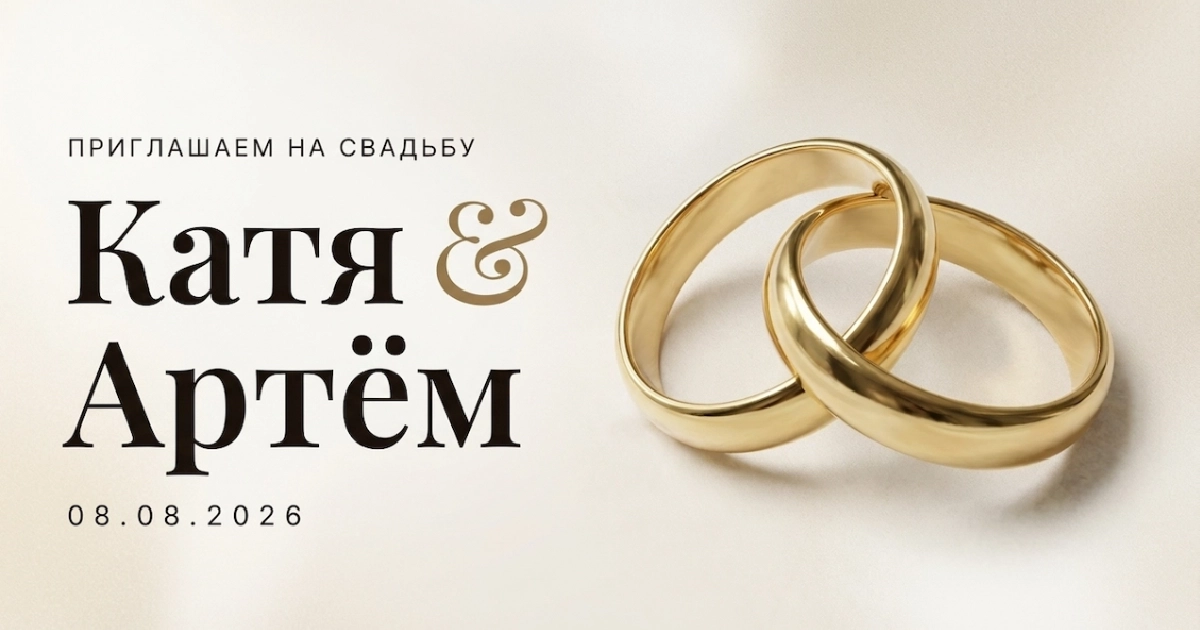
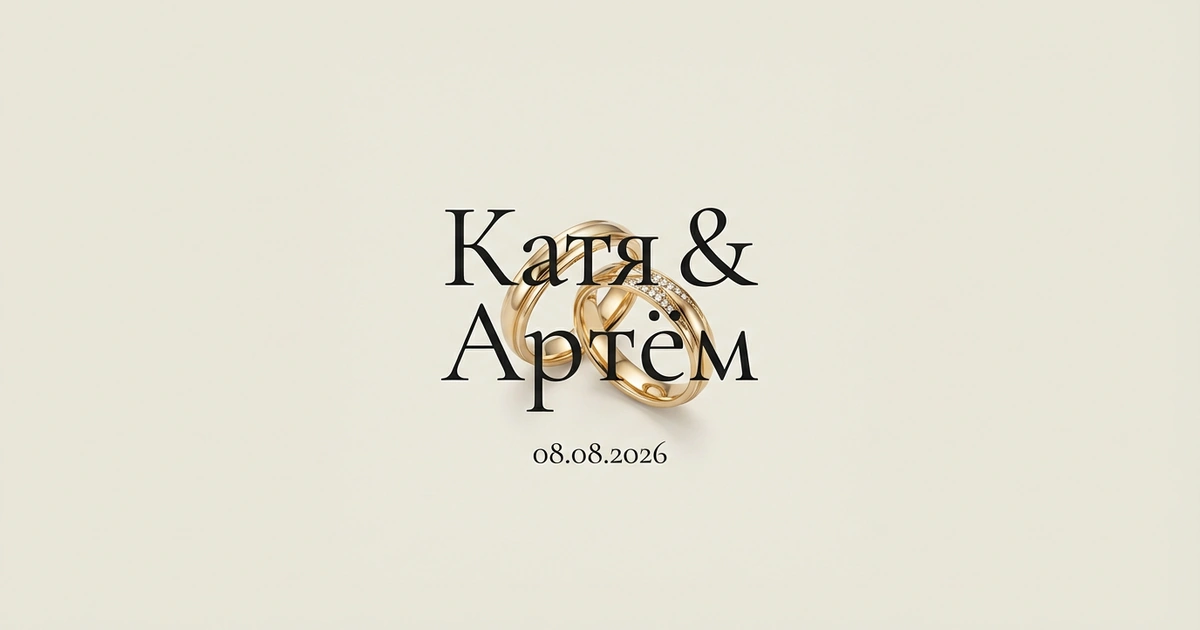
Replace OG image with Telegram-safe centered composition.
Adopt generated variant 2 as public/og.webp and bump OG/Twitter cache-bust to 
=3 to improve Telegram preview framing without changing the site visual style.

Made-with: Cursor

diff --git a/dist/index.html b/dist/index.html
@@ -8,8 +8,8 @@
     <meta property="og:description" content="Приглашаем на свадьбу" />
     <meta property="og:url" content="https://katyartemwedding.ru/" />
     <meta property="og:site_name" content="Катя & Артём" />
-    <meta property="og:image" content="https://katyartemwedding.ru/og.webp?v=2" />
-    <meta property="og:image:secure_url" content="https://katyartemwedding.ru/og.webp?v=2" />
+    <meta property="og:image" content="https://katyartemwedding.ru/og.webp?v=3" />
+    <meta property="og:image:secure_url" content="https://katyartemwedding.ru/og.webp?v=3" />
     <meta property="og:image:type" content="image/webp" />
     <meta property="og:image:width" content="1200" />
     <meta property="og:image:height" content="630" />
@@ -17,7 +17,7 @@
     <meta name="twitter:card" content="summary_large_image" />
     <meta name="twitter:title" content="Катя & Артём · 08.08.2026" />
     <meta name="twitter:description" content="Приглашаем на свадьбу" />
-    <meta name="twitter:image" content="https://katyartemwedding.ru/og.webp?v=2" />
+    <meta name="twitter:image" content="https://katyartemwedding.ru/og.webp?v=3" />
     <title>Катя &amp; Артём · 08.08.2026</title>
     <link rel="icon" href="/favicon.svg" type="image/svg+xml" />
     <link rel="preconnect" href="https://fonts.googleapis.com" />

diff --git a/index.html b/index.html
@@ -8,8 +8,8 @@
     <meta property="og:description" content="Приглашаем на свадьбу" />
     <meta property="og:url" content="https://katyartemwedding.ru/" />
     <meta property="og:site_name" content="Катя & Артём" />
-    <meta property="og:image" content="https://katyartemwedding.ru/og.webp?v=2" />
-    <meta property="og:image:secure_url" content="https://katyartemwedding.ru/og.webp?v=2" />
+    <meta property="og:image" content="https://katyartemwedding.ru/og.webp?v=3" />
+    <meta property="og:image:secure_url" content="https://katyartemwedding.ru/og.webp?v=3" />
     <meta property="og:image:type" content="image/webp" />
     <meta property="og:image:width" content="1200" />
     <meta property="og:image:height" content="630" />
@@ -17,7 +17,7 @@
     <meta name="twitter:card" content="summary_large_image" />
     <meta name="twitter:title" content="Катя & Артём · 08.08.2026" />
     <meta name="twitter:description" content="Приглашаем на свадьбу" />
-    <meta name="twitter:image" content="https://katyartemwedding.ru/og.webp?v=2" />
+    <meta name="twitter:image" content="https://katyartemwedding.ru/og.webp?v=3" />
     <title>Катя &amp; Артём · 08.08.2026</title>
     <link rel="icon" href="/favicon.svg" type="image/svg+xml" />
     <link rel="preconnect" href="https://fonts.googleapis.com" />

diff --git a/CONTEXT.md b/CONTEXT.md
@@ -73,7 +73,7 @@ public/models/                     # ring_a.glb, ring_b.glb, hero_text_opt.glb (
 - **Mobile hero-name state surgery (single-controller + disappearance fix)**: root cause of “appears then vanishes” was `runIntro` mobile tween using `clearProps: 'all'` on `#hero-names`, which restored CSS base `opacity: 0` after intro. Introduced a single state helper in `main.js` (`setHeroNamesState`) plus shared query constant (`HERO_MOBILE_QUERY`) to centralize mobile HTML-name visibility/transform handling (`opacity`, `y`, `scale`, `xPercent/yPercent`, `pointerEvents`). `setupHeroTextMedia`, `runIntro`, and `handleHeroSplitResize` now call this helper (no scattered ad-hoc sets). Mobile intro keeps final visible state (no clearProps reset). In `Scroll.js`, mobile scrub condition is aligned to coarse-pointer query (`(max-width: 767px) and (pointer: coarse)`) and keeps `immediateRender:false` to avoid startup side-effects.
 - **Header / hero (P1)**: `#site-nav.nav--scrolled` — frosted bar `background: rgba(253,251,247,0.25)`, `backdrop-filter: blur(16px)`. `.nav-logo` — Manrope, small caps (`0.62rem`, `font-weight:600`, `text-transform:uppercase`, `letter-spacing:0.2em`). **`#hero-overlay`**: `gsap.fromTo` + ScrollTrigger `trigger:'body'`, `start:'top top'`, `end:'+=800'`, `scrub:true` — opacity `1→0`, `y` `0→-56` (`ease:'none'`). **`nav--scrolled`**: `ScrollTrigger.create` on `body`, `start:'top -80px'`, `toggleClass` on `#site-nav`. **`.hero-overlay__inner`**: **`position:relative`**, **`width/height:100%`**, **`min-height:100vh`**, no flex centering; children absolutely positioned — **`.hero-tagline`** top rail (**`top: clamp(48px,10vh,96px)`**, `font-size: clamp(0.75rem,1.8vw,1rem)`, `letter-spacing:0.28em`, `color: rgba(18,12,8,0.62)`); **new `.hero-bottom` wrapper** groups **`.hero-date` + `#countdown`** (`position:absolute`, `bottom: clamp(20px,5vh,56px)`, centered, column flex, gap clamp) so date always sits above numbers without overlap; **`.hero-date`** now static inside wrapper (keeps typography styles only); **`#countdown`** keeps row layout/gap styles; **`.hero-scroll-indicator`** stays outside wrapper at `bottom: 8px + safe-area`; **`#hero-names`** mobile vertical center (`top/left 50%` + GSAP **`xPercent`/`yPercent`**). Pointer-gated behavior is aligned in both CSS and JS: `setupHeroTextMedia` and `handleHeroSplitResize` use **`matchMedia('(max-width: 767px) and (pointer: coarse)')`**; CSS compact hero overrides activate only on **`@media (max-width:767px) and (pointer: coarse)`**. In that touch block: **`.hero-bottom`** `bottom: clamp(12px,3vh,28px)`, `gap: 0.5rem`; **`#hero-names`** **`font-size: min(clamp(3rem,30vw,7.5rem),28vh)`** (still larger than earlier baseline but constrained to avoid overlap with `.hero-bottom` on real devices), `line-height:1.05`, `will-change`.
 - **Hero DOM name scale (base style update)**: in `src/style.css`, base `#hero-names` (outside media queries) `font-size` changed from **`clamp(2.5rem, 12vw, 5rem)`** to **`clamp(2.5rem, 20vw, 7rem)`**. Mobile coarse-pointer override block remains unchanged.
-- **Open Graph / share**: `index.html` head now uses absolute HTTPS metadata for stable crawlers/cards: `og:url` = **`https://katyartemwedding.ru/`**, `og:site_name`, `og:image` + `og:image:secure_url` = **`https://katyartemwedding.ru/og.webp?v=2`**, `og:image:type` `image/webp`, dimensions **1200×630**, `og:type: website`. Added `twitter:card=summary_large_image` + `twitter:title/description/image`. Asset remains **`public/og.webp`**.
+- **Open Graph / share**: `index.html` head uses absolute HTTPS metadata for stable crawlers/cards: `og:url` = **`https://katyartemwedding.ru/`**, `og:site_name`, `og:image` + `og:image:secure_url` = **`https://katyartemwedding.ru/og.webp?v=3`**, `og:image:type` `image/webp`, dimensions **1200×630**, `og:type: website`. Added `twitter:card=summary_large_image` + `twitter:title/description/image`. `public/og.webp` is replaced with Telegram-safe centered composition derived from generated variant 2 (same premium style, safer crop behavior).
 - **Header nav** (`index.html` `.nav-links`): **three links only** — **История** → `#section-path`, **Галерея** → `#section-glimpse`, **Детали** → `#section-destination` (location + RSVP live below; **`#section-final`** outro has **no** nav item). Lenis / `scrollIntoView` unchanged for listed anchors. **`#section-final`** landmark: **`aria-label="RSVP"`** (closing / RSVP emotional block; reach by scroll).
 - **World** (Singleton: guard → **config validation** → `World.instance`; `getWorld()`), **`heroText`**: nullable ref set from **`main.js`** on `resources:ready` ( **`HeroText`** instance). **`studioDome`**: **`StudioDome`** — **`init({ scene })`** then **`scene.add(mesh)`**; **`dispose()`** removes mesh + disposes geo/material before teardown. **Lights**: **`AmbientLight`** `0xffffff, 0.5` (fill); **`DirectionalLight`** `0xffffff, 1.05` (~34% softer than former 1.6), **`position.set(-2.5, 4.5, 3.5)`** (top-left softbox — ring silhouette on wall, not edge “pill”), **`castShadow: true`**, shadow map **2048×2048**, camera **near 0.5 / far 25**, ortho **±6** (hero ~±1.5 world XY), **`bias -0.001`**, **`shadow.radius = 12`** (heavy blur for ~2 unit ring→wall gap; Three **r183** uses `PCFShadowMap` when `PCFSoftShadowMap` requested — `radius` still softens). **Shadow catcher**: **`PlaneGeometry(25, 25)`** + **`ShadowMaterial`** `opacity: 0.28` (soft atmospheric darkening), **`position.z = -1.5`** (clear of rear ring absolute z ≈ **-0.85**), **`receiveShadow: true`** — only surface that receives shadows (dome off). **`destroy()`**: remove catcher, dispose geometry + material. **ResourceLoader**: HDRI, **ringA/B** + **`heroText`** **`/models/hero_text_opt.glb`**, **Draco** + **`MeshoptDecoder`** on **`GLTFLoader`**. **GlassRing** (PBR gold). **Hero resting positions**: `groupA(-0.35, 0.1, 0.5)`, `groupB(0.28, -0.1, -0.5)` — **1.0 unit Z separation**.
 - **Studio dome (cyclorama)**: **`StudioDome`** — `SphereGeometry(40, 64, 64)`, **`MeshStandardMaterial`** `color #EAE7DC`, **`side: BackSide`**, `roughness 1`, `metalness 0`; **`mesh.receiveShadow = false`** (no dome shadow calc / artifacts).
